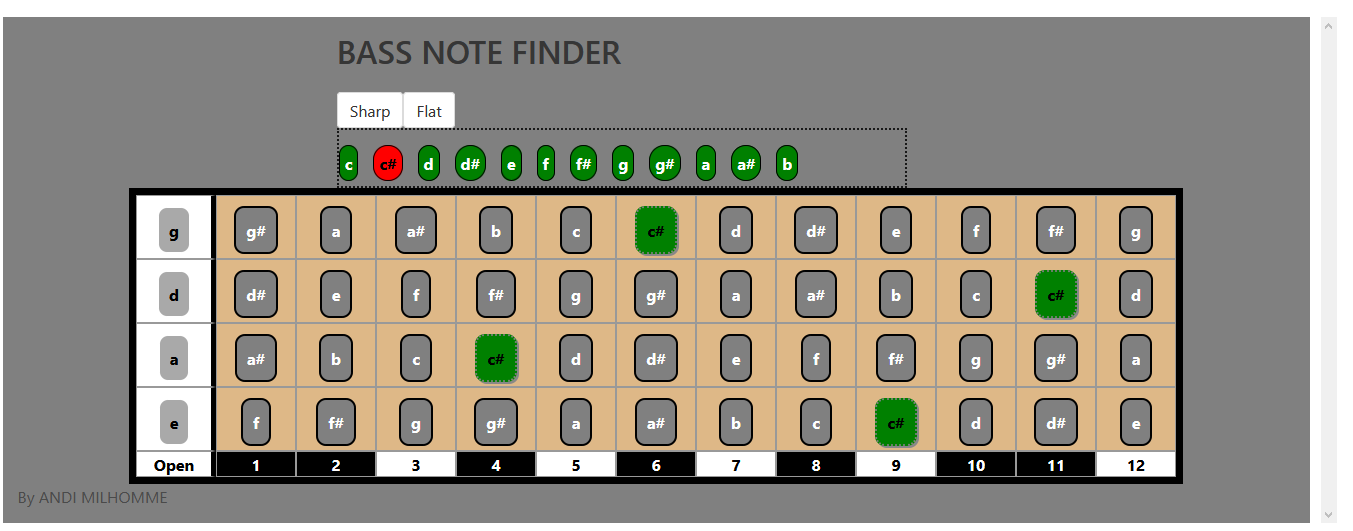
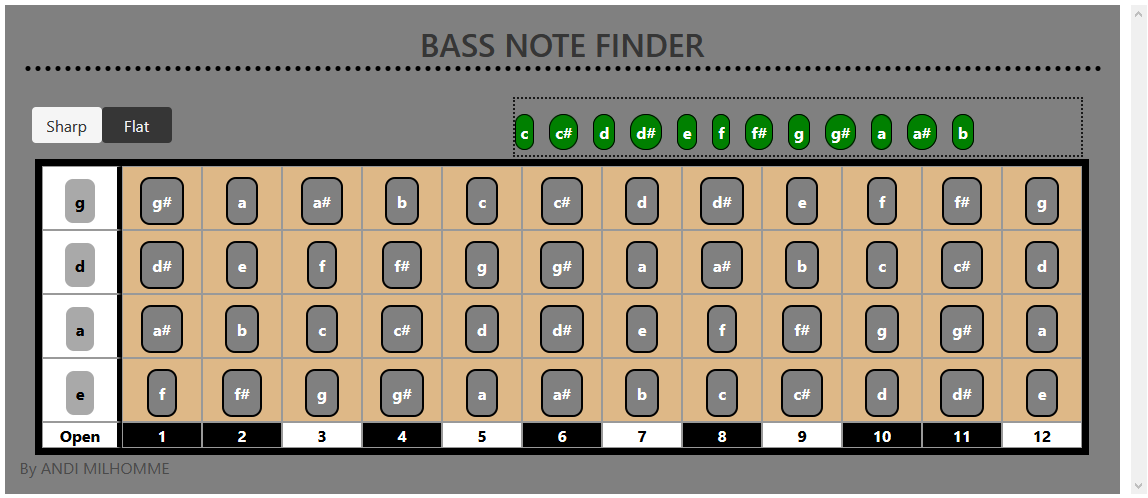
Creating pitch control toggles updated screenshot

diff --git a/src/app/components/bass/bass.component.ts b/src/app/components/bass/bass.component.ts
@@ -65,10 +65,10 @@ fretNumber = this.notesData.fretNumber;
 
   };
 
-
+togglePitch = 0;
   toggleType(type) {
     if (type == NoteType.Flat) {
-
+     this.togglePitch = 1;
       this.notes = ["c", "d&#9837;", "d", "f&#9837;", "f&#9837;", "f", "g&#9837;", "g", "a&#9837;", "a", "c&#9837;"];
       this.gString = this.gStringFlat;
       this.dString = this.dStringFlat;
@@ -76,6 +76,7 @@ fretNumber = this.notesData.fretNumber;
       this.eString = this.eStringFlat;
     }
     else if (type == NoteType.Sharp) {
+      this.togglePitch = 0;
       this.notes = ["c", "c#", "d", "d#", "e", "f", "f#", "g", "g#", "a", "a#", "b"];
       this.gString = this.gStringSharp;
       this.dString = this.dStringSharp;

diff --git a/src/app/components/bass/bass.component.html b/src/app/components/bass/bass.component.html
@@ -3,9 +3,9 @@
   
         <div class="toolbar">
    
-    <div class="controls">
-      <button class="button" (click)="toggleType(0)">Sharp</button>
-      <button class="button" (click)="toggleType(1)">Flat</button>
+    <div class="pitch-control">
+      <button class="button" (click)="toggleType(0)" [ngClass]="togglePitch === 0 ? 'is-light' : 'is-dark' ">Sharp</button>
+      <button class="button" (click)="toggleType(1) " [ngClass]="togglePitch === 1 ? 'is-light' : 'is-dark' ">Flat</button>
     </div>
     <ul class="notesList">
       <li

diff --git a/src/app/components/bass/bass.component.scss b/src/app/components/bass/bass.component.scss
@@ -149,13 +149,18 @@ h1 {
     
     display: flex;
     flex-direction: row;
-    justify-items: space-between;
+    justify-content: space-between;
     padding: 2px;
 
 
 
-    & .controls {
-        border: 2px solid blue;
+    & .pitch-control {
+        
+        & > button {
+           width: 70px; 
+        }
+        padding: 10px;
+
 
     }
 
